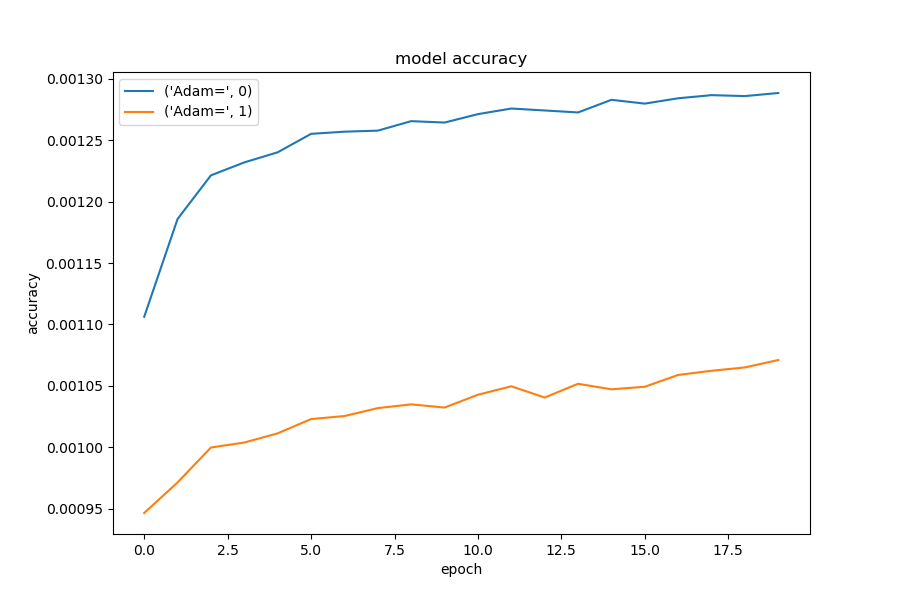
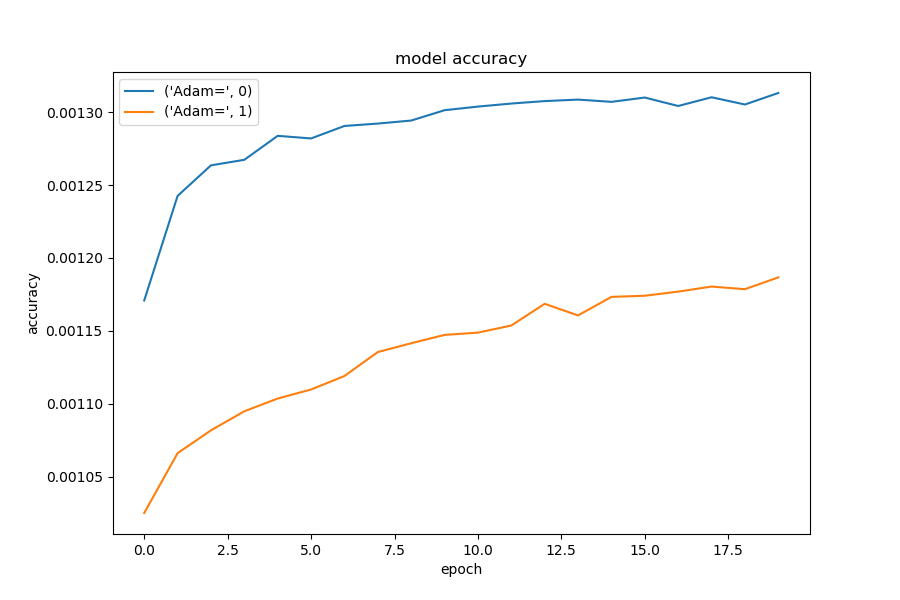
Updated code

diff --git a/Adam_tt_tw/Adam_tt_tw.py b/Adam_tt_tw/Adam_tt_tw.py
@@ -78,20 +78,20 @@ class neuralNetworkEnvironment(object):
         #Iterations are used for the adversarial part of the training
         #If you want to make the training longer you want to change these numbers, there is no early stopping atm, feel free to add it
         self.discriminator_epochs = epoch
-        self.batchSize = 2024
+        self.batchSize = 512
         #Setup of the networks, nodes and layers
-        self.discriminator_layers = 5
+        self.discriminator_layers = 8
         self.discriminator_nodes = 128
         #Setup of the networks, loss and optimisation   decay=1e-2,
         if Adam:
             self.discriminator_optimizer = keras.optimizers.adam(lr=0.001, beta_1=0.9, beta_2=0.999, epsilon=1e-8, decay = 1e-8, clipnorm = 0, clipvalue = 0.005)  #, amsgrad = FALSE
         else:
-            self.discriminator_optimizer = SGD(lr = 0.1, momentum = 0.5,  nesterov=False)
+            self.discriminator_optimizer = SGD(lr = 0.15, momentum = 0.5, decay = 1e-8)
 
-        self.discriminator_dropout = 0.4
+        self.discriminator_dropout = 0.2
         self.discriminator_loss = binary_crossentropy
 
-        self.validation_fraction = 0.1
+        self.validation_fraction = 0.3
         
         #The following set of variables is used to evaluate the result
         #fpr_test = false positive rate, tpr_test = true positive rate
@@ -345,8 +345,8 @@ def train_AdamVsSGD(epoch):
 
 
 #train_multi(10, 100, True)
-#train_single(100, True)
-train_AdamVsSGD(20)
+train_single(100, True)
+#train_AdamVsSGD(20)
 
 
 
